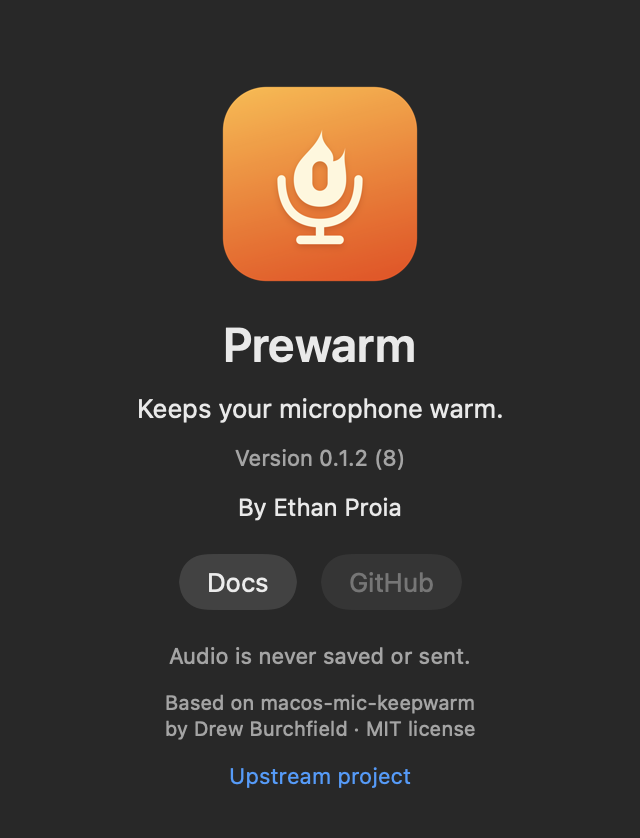
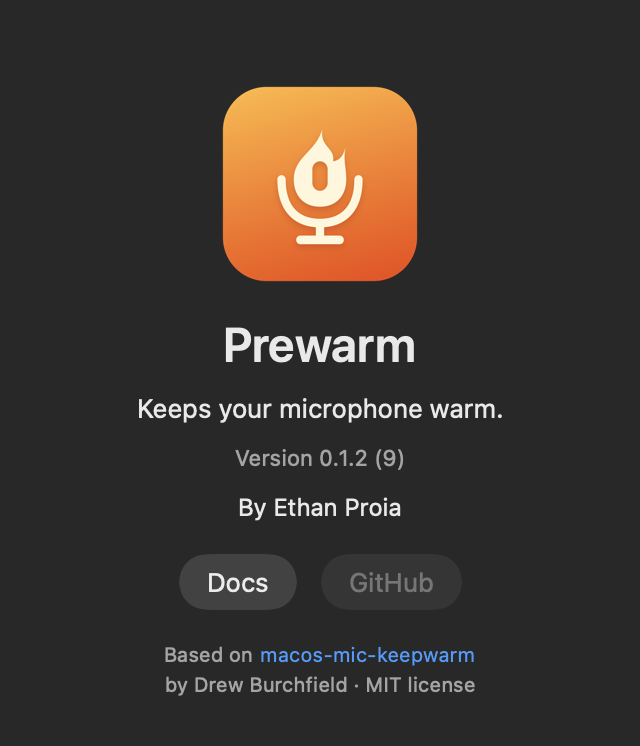
refactor(ui): simplify About attribution links

diff --git a/Sources/Prewarm/AboutController.swift b/Sources/Prewarm/AboutController.swift
@@ -19,7 +19,6 @@ private struct AboutView: SwiftUI.View {
     let version: String
     let build: String
     let openDocs: () -> Void
-    let openUpstream: () -> Void
 
     var body: some SwiftUI.View {
         VStack(spacing: 10) {
@@ -30,12 +29,16 @@ private struct AboutView: SwiftUI.View {
             Text("Version \(version) (\(build))").font(.system(size: 11)).foregroundStyle(.secondary)
             Text("By Ethan Proia").font(.system(size: 12))
             actions.padding(.vertical, 6)
-            Text("Audio is never saved or sent.").font(.system(size: 11)).foregroundStyle(.secondary)
-            Text("Based on macos-mic-keepwarm\nby Drew Burchfield · MIT license")
-                .font(.system(size: 10)).foregroundStyle(.secondary).multilineTextAlignment(.center)
-                .fixedSize(horizontal: false, vertical: true)
-            Button("Upstream project", action: openUpstream).buttonStyle(.link).font(.system(size: 11))
-                .help("Drew Burchfield's original macos-mic-keepwarm project")
+            VStack(spacing: 2) {
+                HStack(spacing: 0) {
+                    Text("Based on ").foregroundStyle(.secondary)
+                    Link("macos-mic-keepwarm", destination: URL(string: "https://github.com/drewburchfield/macos-mic-keepwarm")!)
+                        .buttonStyle(.link)
+                        .help("Drew Burchfield's original macos-mic-keepwarm project")
+                }
+                Text("by Drew Burchfield · MIT license").foregroundStyle(.secondary)
+            }
+            .font(.system(size: 10))
         }
         .padding(.horizontal, 24)
         .padding(.top, 36)
@@ -73,8 +76,7 @@ final class AboutController: NSViewController {
             icon: NSApp.applicationIconImage,
             version: info["CFBundleShortVersionString"] as? String ?? "Unknown",
             build: info["CFBundleVersion"] as? String ?? "Unknown",
-            openDocs: { if let url = Bundle.main.url(forResource: "README", withExtension: "md") { NSWorkspace.shared.open(url) } },
-            openUpstream: { NSWorkspace.shared.open(URL(string: "https://github.com/drewburchfield/macos-mic-keepwarm")!) }
+            openDocs: { if let url = Bundle.main.url(forResource: "README", withExtension: "md") { NSWorkspace.shared.open(url) } }
         ))
         hosting.sizingOptions = .intrinsicContentSize
         hosting.safeAreaRegions = []

diff --git a/scripts/AppearanceReview/main.swift b/scripts/AppearanceReview/main.swift
@@ -5,7 +5,7 @@ let root = CommandLine.arguments[1]
 let app = NSApplication.shared
 app.setActivationPolicy(.prohibited)
 app.applicationIconImage = NSImage(contentsOfFile: "\(root)/assets/Prewarm.icns")!
-let controller = AboutController(info: ["CFBundleShortVersionString": "0.1.2", "CFBundleVersion": "8"])
+let controller = AboutController(info: ["CFBundleShortVersionString": "0.1.2", "CFBundleVersion": "9"])
 let window = PrewarmWindow(contentRect: NSRect(x: 0, y: 0, width: 320, height: 460), styleMask: [.titled, .closable, .fullSizeContentView], backing: .buffered, defer: false)
 window.contentViewController = controller
 for (name, appearanceName) in [("light", NSAppearance.Name.aqua), ("dark", NSAppearance.Name.darkAqua)] {

diff --git a/assets/icon-review.md b/assets/icon-review.md
@@ -55,3 +55,5 @@ Build 7 is the user-authorized alternate native panel after clarifying that the 
 The isolated native-host probe checks full-size frame/content286pt height without titlebar surplus, hidden/absent Close, zero inner material radius and inherited light/dark on the same instance. It opens no visible panel or input. Outside-click monitors install only while shown and are removed on dismiss/destruction; Escape dismisses through the native responder chain. Root checks actual native corners, placement, dismissal, More, switch/device selection and live audio. No capture or UID policy change.
 
 Build 8 adds the user's requested native NSBox dividing line below the Prewarm header, with compact8pt spacing on each side. Other accepted panel behavior and controls are unchanged. The root's Escape observations were inconclusive because the actual panel disappearance and AX responses differed; no speculative keyboard change is included.
+
+Build 9 removes the privacy sentence from About only and replaces its separate Upstream action with a native inline Link on macos-mic-keepwarm in the original-credit line. Author/MIT attribution, Docs/GitHub capsules and privacy access in the main panel remain. The fitting About height follows the smaller content; capture and panel hosting are unchanged. Root installs build9 with the build8 header divider together.

diff --git a/README.md b/README.md
@@ -1,6 +1,6 @@
 # Prewarm
 
-Prewarm 0.1.2 (build 8), by Ethan Proia.
+Prewarm 0.1.2 (build 9), by Ethan Proia.
 
 A tiny macOS menu-bar utility that keeps your microphone warm by keeping its input stream active. It immediately discards audio samples; it does not record, analyze, save, or transmit audio. No third-party dependencies or network calls.
 
